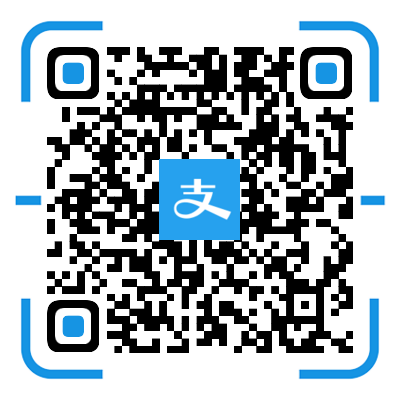
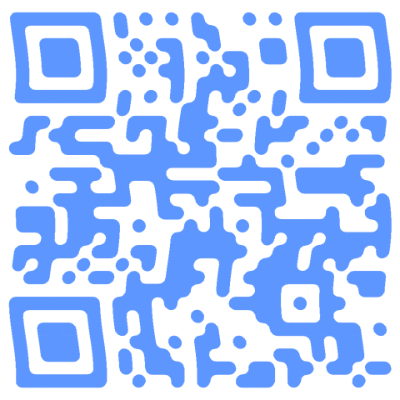
Add files via upload

diff --git a/simple/index.html b/simple/index.html
@@ -11,10 +11,10 @@
 	<script src="script.js"></script>
 </head>
 <body style="background:transparent;">
-	<a id="github" href="https://github.com/TinyJay/donate-page" target="_blank" class="pos-f tr3" title="Github"></a>
-	<div id="DonateText" class="tr3">Donate</div>
+	<a id="github" href="https://xn--i0v44m.xyz" target="_blank" class="pos-f tr3" title="Github"></a>
+	<div id="DonateText" class="tr3"></div>
 	<ul id="donateBox" class="list pos-f tr3">
-		<li id="PayPal"><a href="https://www.paypal.me/GuoYanjun" target="_blank" title="PayPal付款页">PayPal</a></li>
+		<li id="QQ" data-footnote="点击查看QQ付款码"><a  title="QQ付款码">QQ</a></li>
 		<li id="AliPay" data-footnote="点击查看支付宝付款码"><a  title="支付宝付款码">AliPay</a></li>
 		<li id="WeChat" data-footnote="点击查看微信付款码"><a  title="微信付款码">WeChat</a></li>
 	</ul>

diff --git a/simple/style.css b/simple/style.css
@@ -46,7 +46,7 @@ a{
 	height: 70px;
 	line-height: 70px;
 	color: #fff;
-	background: #ffd886 url(images/like.svg) no-repeat center 10px;
+	/background: #ffd886 url(images/like.svg) no-repeat center 10px;
 	background-size: 20px;
 	border-radius: 35px;
 	text-align: center;
@@ -95,8 +95,8 @@ a{
 #donateBox a {
 	display: block;
 }
-#donateBox #PayPal {
-	background-image: url(images/paypal.svg);
+#donateBox #QQ {
+	background-image: url(images/QQ.svg);
 }
 
 #donateBox #AliPay {

diff --git a/simple/script.js b/simple/script.js
@@ -3,6 +3,7 @@ jQuery(document).ready(function() {
 	var MainBox	=	$('#MainBox');
 	var AliPayQR	=	'images/AliPayQR.png';
 	var WeChanQR	=	'images/WeChanQR.png';
+	var QQQR		=	'images/QQ.png';
 
 	
 
@@ -22,6 +23,8 @@ jQuery(document).ready(function() {
 			showQR(AliPayQR);
 		} else if (thisID === 'WeChat') {
 			showQR(WeChanQR);
+		} else if (thisID === 'QQ') {
+			showQR(QQQR);
 		}
 	});
 
